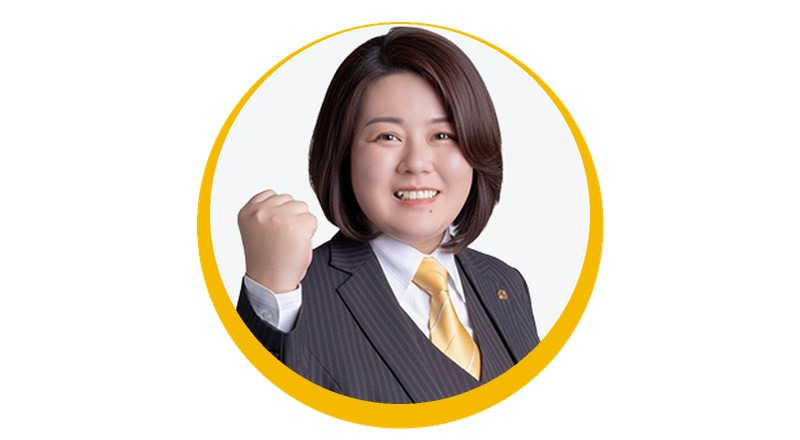
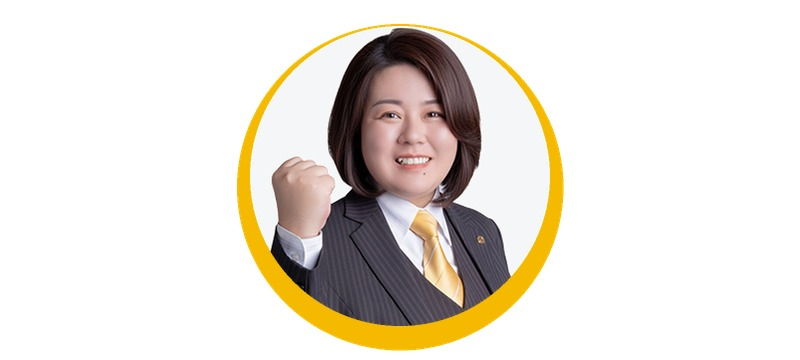
名片卡縮矮：你好與名字同一排、電話縮小不截斷、經紀業三行、頭像圖變扁（尚未上線）

Changed region(s): [[0.2188, 0.0306, 0.7812, 0.9778]]

diff --git a/src/lib/linecard.ts b/src/lib/linecard.ts
@@ -218,6 +218,9 @@ export function caseBubble(c: CardCase, o: BuildOpts) {
   };
 }
 
+/** 縮短標點讓一行放得下：「經紀人：簡梅芳（111）」→「經紀人 簡梅芳(111)」 */
+const tight = (t: string) => t.replace('：', ' ').replace('（', '(').replace('）', ')');
+
 export function agentBubble(o: BuildOpts) {
   const a = o.agent;
   const c = { align: 'center' as const };
@@ -225,7 +228,7 @@ export function agentBubble(o: BuildOpts) {
     type: 'bubble',
     size: SIZE,
     // 圓形頭像（臉完整）＋黃色弧，圖已先做好
-    hero: { type: 'image', url: `${o.origin}/images/sala-card-hero.jpg`, size: 'full', aspectRatio: '20:11', aspectMode: 'cover' },
+    hero: { type: 'image', url: `${o.origin}/images/sala-card-hero.jpg`, size: 'full', aspectRatio: '20:9', aspectMode: 'cover' },
     body: {
       type: 'box',
       layout: 'vertical',
@@ -233,24 +236,23 @@ export function agentBubble(o: BuildOpts) {
       spacing: 'xs',
       contents: [
         ...(o.inlineGreeting ? [text(o.greeting, { size: 'sm', color: '#0f172a', wrap: true, weight: 'bold', ...c })] : []),
-        text('你好', { size: 'xs', color: '#64748b', ...c }),
         {
           type: 'text',
           align: 'center',
           wrap: true,
           contents: [
-            { type: 'span', text: '我是 ', size: 'sm', color: '#475569' },
+            { type: 'span', text: '你好，我是 ', size: 'sm', color: '#475569' },
             { type: 'span', text: '蔡莎拉', size: 'xxl', weight: 'bold', color: '#0f172a' },
             { type: 'span', text: `（${a.name.replace(/^蔡/, '')}）`, size: 'xs', color: '#64748b' },
           ],
         },
-        text(a.phone, { weight: 'bold', size: 'xxl', color: RED, margin: 'sm', ...c }),
+        text(a.phone, { weight: 'bold', size: 'xl', color: RED, margin: 'sm', ...c }),
         text('這是我挑選的合適物件', { size: 'sm', color: '#0f172a', margin: 'md', ...c }),
         text('歡迎隨時連絡我，討論你的喜好', { size: 'sm', color: '#475569', wrap: true, ...c }),
-        text(`${a.store}
-${a.company}
-${a.broker}
-${a.agent}`, { size: 'xxs', color: '#94a3b8', wrap: true, margin: 'lg', ...c }),
+        // 經紀業資訊三行小字（標點縮短避免換行）
+        text(`${a.store} ${a.company}
+${tight(a.broker)}
+${tight(a.agent)}`, { size: 'xxs', color: '#94a3b8', wrap: true, margin: 'lg', ...c }),
       ],
     },
     footer: {
